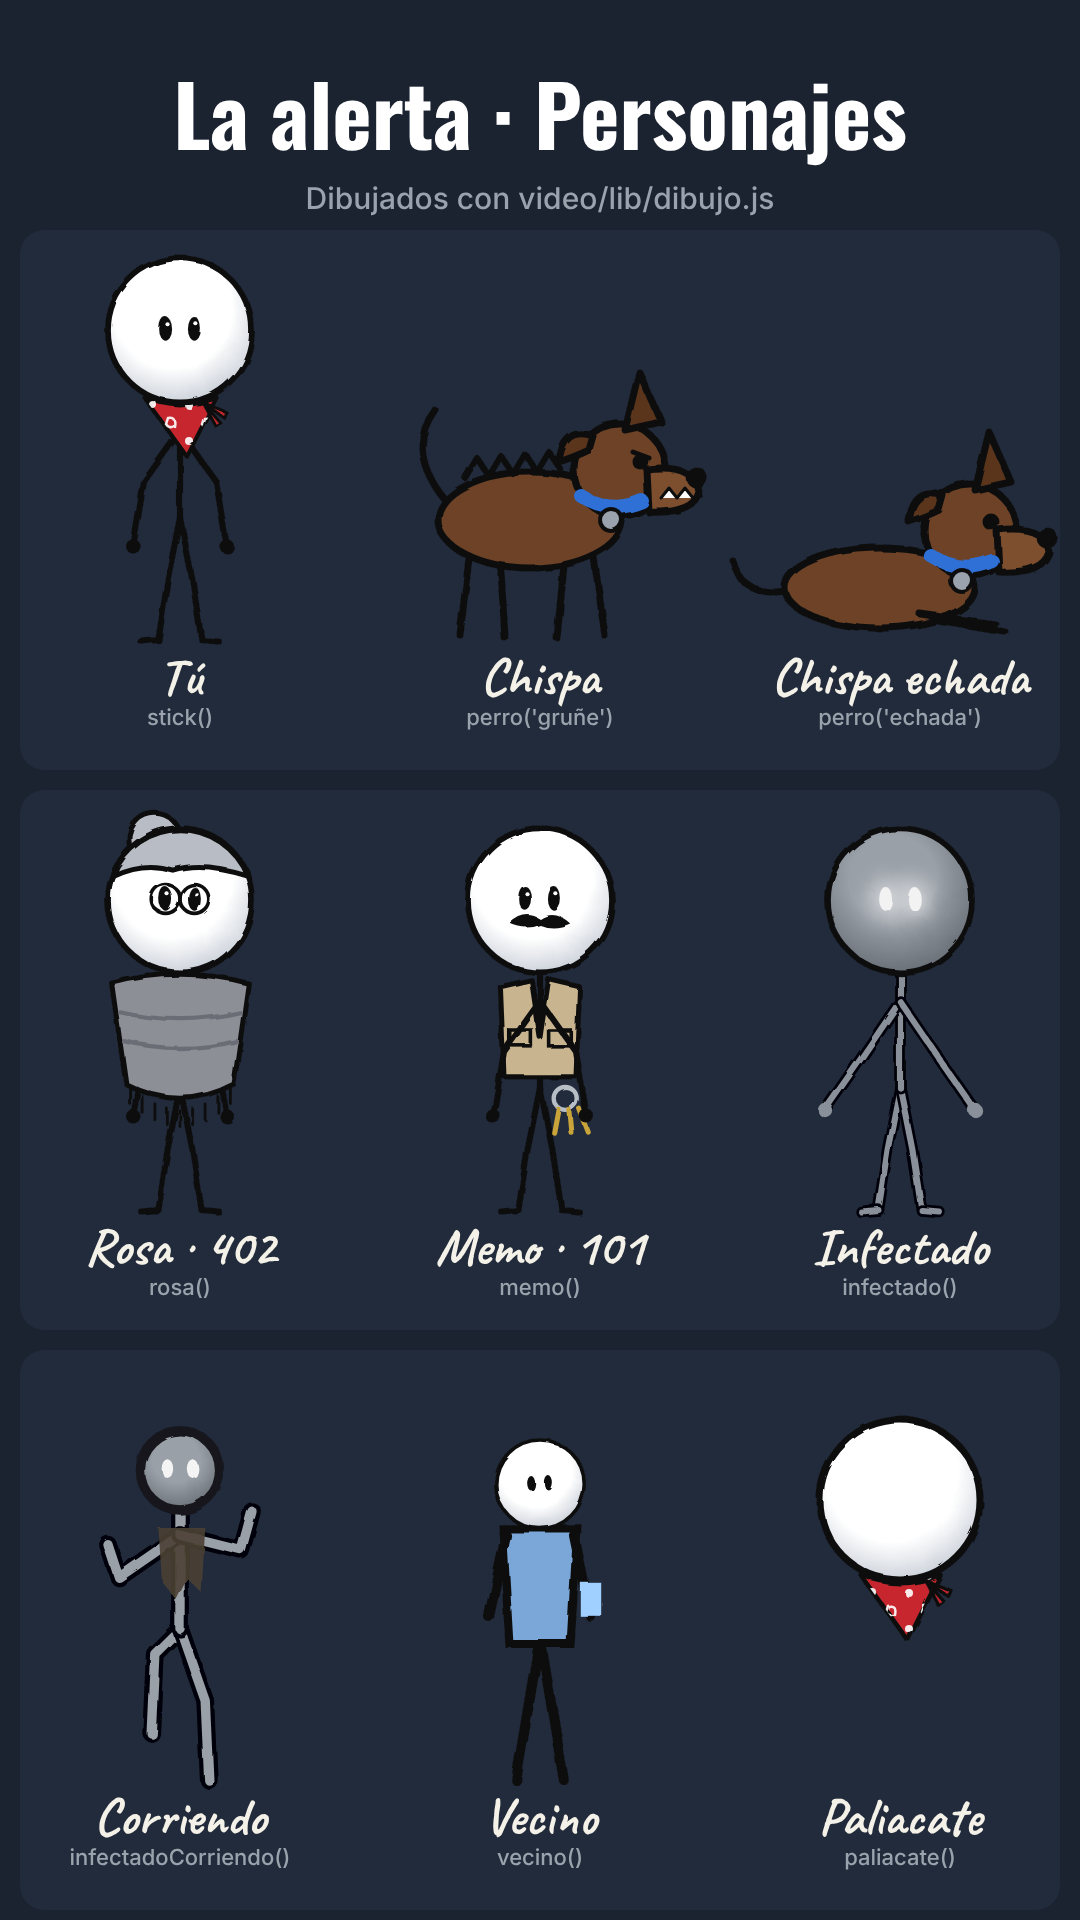
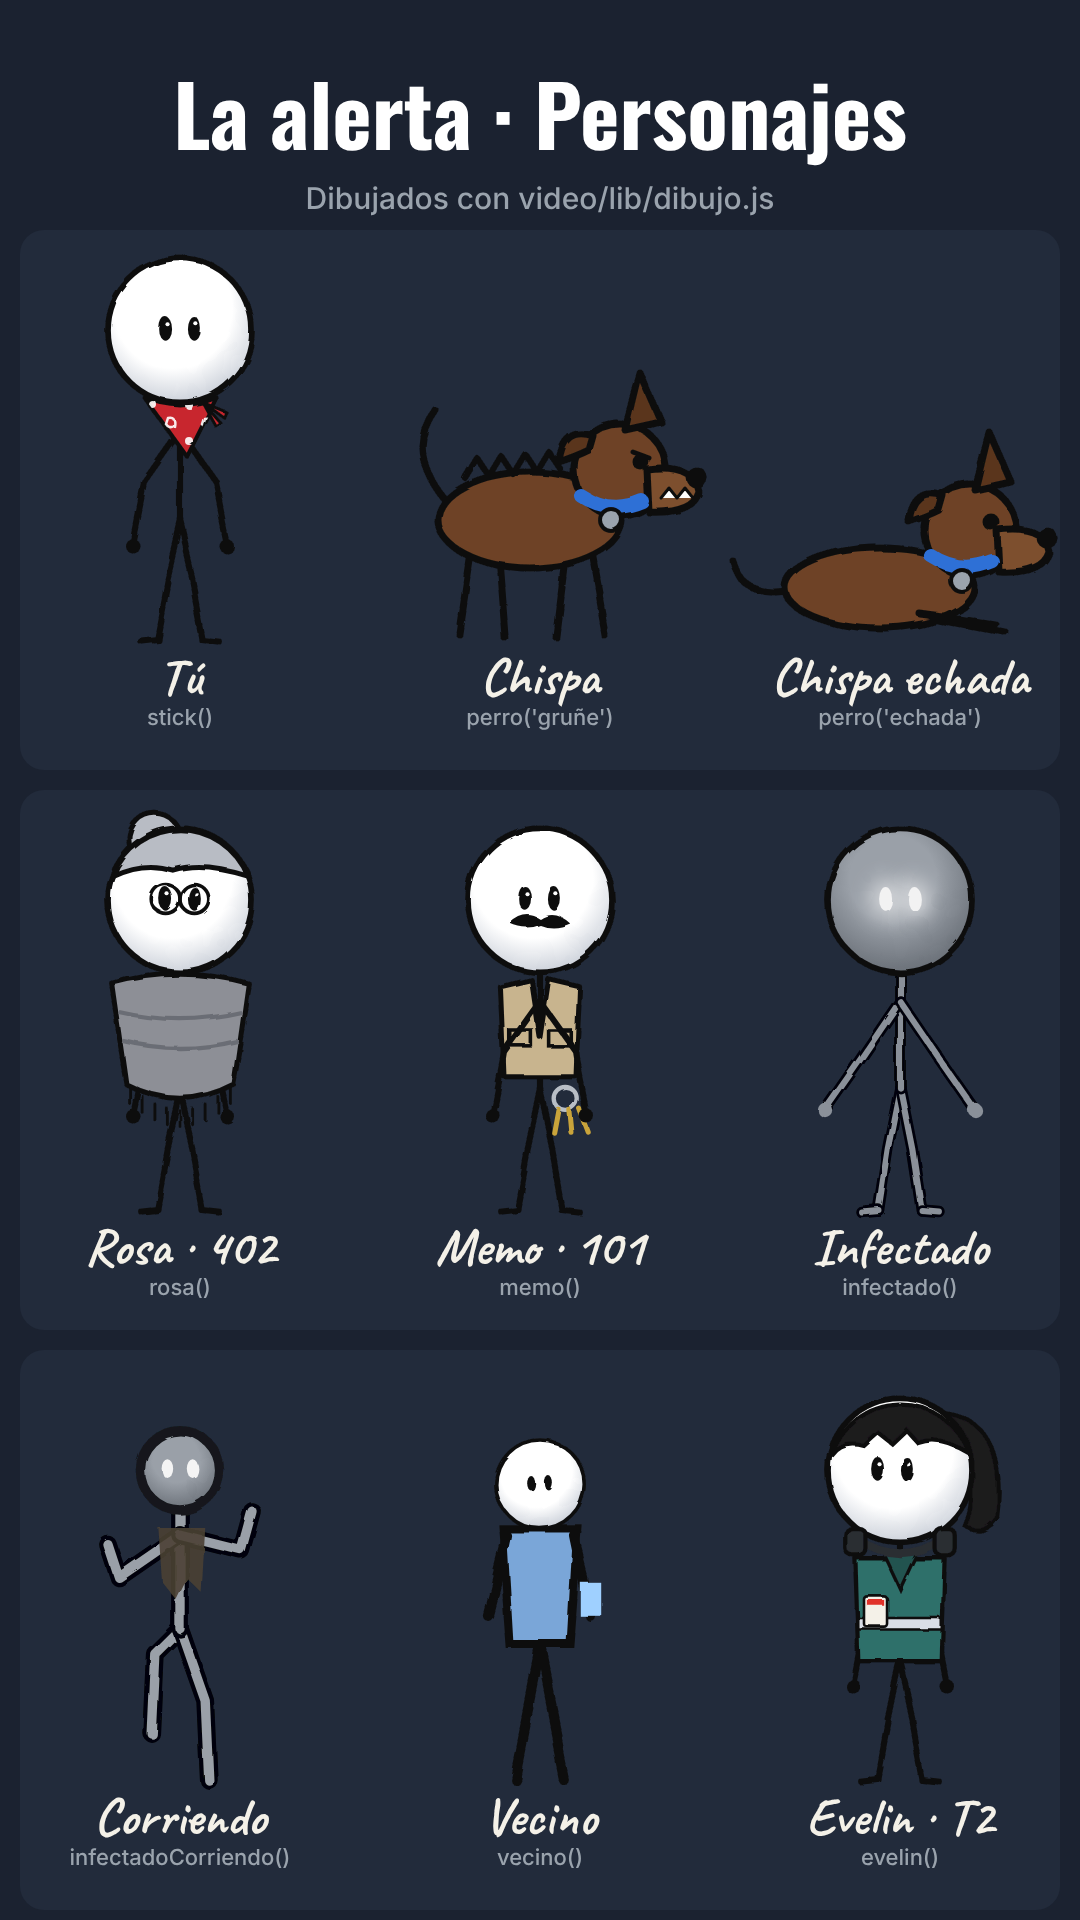
Agrega a Evelin: función evelin() y hoja de personajes actualizada
Pelo negro con fleco y coleta, audífonos de operadora, chamarra verde
azulado con franja reflejante y gafete. Tiene versión de niña.

Claude-Session: https://claude.ai/code/session_01RDLF3ECTvweujE8mCYUT1a

Changed region(s): [[0.7333, 0.7188, 0.9472, 0.9688]]

diff --git a/video/lib/dibujo.js b/video/lib/dibujo.js
@@ -155,6 +155,36 @@ function memo(o) {
   return stick({ ...o, paliacate: false, antesCabeza: chaleco + llaves, despuesCabeza: bigote });
 }
 
+// Evelin, nieta de Rosa, operadora de noche del centro de alerta (temporada 2). Mismos parámetros que stick().
+// Pelo negro con fleco y coleta, audífonos de operadora, chamarra verde azulado con franja reflejante y gafete.
+// o.audifonos: 'cuello' (por omisión) o 'puestos'. o.nina: Evelin de niña (dos coletas, playera amarilla, sin audífonos).
+function evelin(o) {
+  const [cx, cy] = o.head, r = o.r, [nx, ny] = o.neck, [hx, hy] = o.hip, k = r * 0.06;
+  const PELO = '#1d1a1f';
+  const coleta = o.nina
+    ? [-1, 1].map(l => `<path d="M${cx + l * r * 0.8} ${cy - r * 0.45} q${l * r * 0.75} ${r * 0.05} ${l * r * 0.6} ${r * 0.9} q${-l * r * 0.3} ${-r * 0.3} ${-l * r * 0.55} ${-r * 0.7} z" fill="${PELO}" stroke="${INK}" stroke-width="${k}"/>`).join('')
+    : `<path d="M${cx + r * 0.55} ${cy - r * 0.8} q${r * 0.95} ${r * 0.05} ${r * 0.8} ${r * 1.45} q${-r * 0.2} ${r * 0.3} ${-r * 0.45} ${r * 0.12} q${r * 0.28} ${-r * 0.6} ${-r * 0.38} ${-r * 1.3} z" fill="${PELO}" stroke="${INK}" stroke-width="${k}"/>`;
+  const ropa = o.nina
+    ? `<path d="M${nx - r * 0.5} ${ny + r * 0.15} L${nx + r * 0.5} ${ny + r * 0.15} L${hx + r * 0.45} ${hy} L${hx - r * 0.45} ${hy} Z" fill="#e5a83b" stroke="${INK}" stroke-width="${k}" stroke-linejoin="round"/>`
+    : `<path d="M${nx - r * 0.62} ${ny + r * 0.22} L${nx + r * 0.62} ${ny + r * 0.22} L${hx + r * 0.58} ${hy + r * 0.05} L${hx - r * 0.58} ${hy + r * 0.05} Z" fill="#2f6f6a" stroke="${INK}" stroke-width="${k}" stroke-linejoin="round"/>
+      <path d="M${nx - r * 0.22} ${ny + r * 0.18} L${nx} ${ny + r * 0.65} L${nx + r * 0.22} ${ny + r * 0.18}" fill="#24524f" stroke="${INK}" stroke-width="${k * 0.8}"/>
+      <rect x="${hx - r * 0.58}" y="${(ny + hy) / 2 + r * 0.25}" width="${r * 1.16}" height="${r * 0.16}" fill="#d9dee6" stroke="${INK}" stroke-width="${k * 0.6}"/>
+      <rect x="${nx - r * 0.5}" y="${ny + r * 0.75}" width="${r * 0.32}" height="${r * 0.42}" rx="${r * 0.04}" fill="#f4f1e8" stroke="${INK}" stroke-width="${k * 0.6}"/>
+      <rect x="${nx - r * 0.46}" y="${ny + r * 0.8}" width="${r * 0.24}" height="${r * 0.08}" fill="#e0312b"/>`;
+  const pelo = `<path d="M${cx - r * 0.95} ${cy - r * 0.2} A${r} ${r} 0 0 1 ${cx + r * 0.95} ${cy - r * 0.25}
+      Q${cx + r * 0.55} ${cy - r * 0.5} ${cx + r * 0.25} ${cy - r * 0.38} L${cx + r * 0.1} ${cy - r * 0.55} L${cx - r * 0.1} ${cy - r * 0.36}
+      L${cx - r * 0.3} ${cy - r * 0.52} L${cx - r * 0.5} ${cy - r * 0.34} Q${cx - r * 0.8} ${cy - r * 0.42} ${cx - r * 0.95} ${cy - r * 0.2} Z" fill="${PELO}" stroke="${INK}" stroke-width="${k}"/>`;
+  let audifonos = '';
+  if (!o.nina && o.audifonos === 'puestos') {
+    audifonos = `<path d="M${cx - r * 0.98} ${cy} A${r * 1.02} ${r * 1.05} 0 0 1 ${cx + r * 0.98} ${cy}" fill="none" stroke="#2a2d33" stroke-width="${r * 0.12}"/>
+      ${[-1, 1].map(l => `<rect x="${cx + l * r * 0.98 - r * 0.15}" y="${cy - r * 0.25}" width="${r * 0.3}" height="${r * 0.5}" rx="${r * 0.1}" fill="#2a2d33" stroke="${INK}" stroke-width="${k}"/>`).join('')}`;
+  } else if (!o.nina) {
+    audifonos = `<path d="M${cx - r * 0.6} ${cy + r * 0.95} Q${cx} ${cy + r * 1.35} ${cx + r * 0.6} ${cy + r * 0.95}" fill="none" stroke="#2a2d33" stroke-width="${r * 0.11}"/>
+      ${[-1, 1].map(l => `<rect x="${cx + l * r * 0.62 - r * 0.14}" y="${cy + r * 0.8}" width="${r * 0.28}" height="${r * 0.38}" rx="${r * 0.1}" fill="#2a2d33" stroke="${INK}" stroke-width="${k}"/>`).join('')}`;
+  }
+  return stick({ ...o, paliacate: false, antesCabeza: coleta + ropa, despuesCabeza: pelo + audifonos });
+}
+
 // Infectado parado, quieto. Mismos parámetros que stick().
 function infectado(o) {
   return stick({ ...o, paliacate: false, headFill: 'url(#headInfectado)', eyeFill: '#f2f2f2', sinBrillo: true, gris: o.gris || '#8a9099' });

diff --git a/video/personajes/hoja.html b/video/personajes/hoja.html
@@ -31,7 +31,7 @@
     [900, 1210, 'Infectado', 'infectado()', infectado(pie(900, 1210, 72, { armL: [[860, 1060], [825, 1110]], armR: [[940, 1060], [975, 1110]], headFill: 'url(#headInfectadoOscuro)', ojosBrillan: true }))],
     [180, 1780, 'Corriendo', 'infectadoCorriendo()', `<g transform="translate(180 1780) scale(360)">${infectadoCorriendo(1.2)}</g>`],
     [540, 1780, 'Vecino', 'vecino()', vecino(540, 1780, 340, '#7aa6d8', { celular: true })],
-    [900, 1780, 'Paliacate', 'paliacate()', `<circle cx="900" cy="1500" r="80" fill="url(#headShade)" stroke="${INK}" stroke-width="7"/>${paliacate(900, 1500, 80)}`],
+    [900, 1780, 'Evelin · T2', 'evelin()', evelin(pie(900, 1780, 72, { look: -8 }))],
   ];
   const stage = document.getElementById('stage');
   stage.innerHTML = `<svg class="lienzo" width="1080" height="1920" viewBox="0 0 1080 1920">
